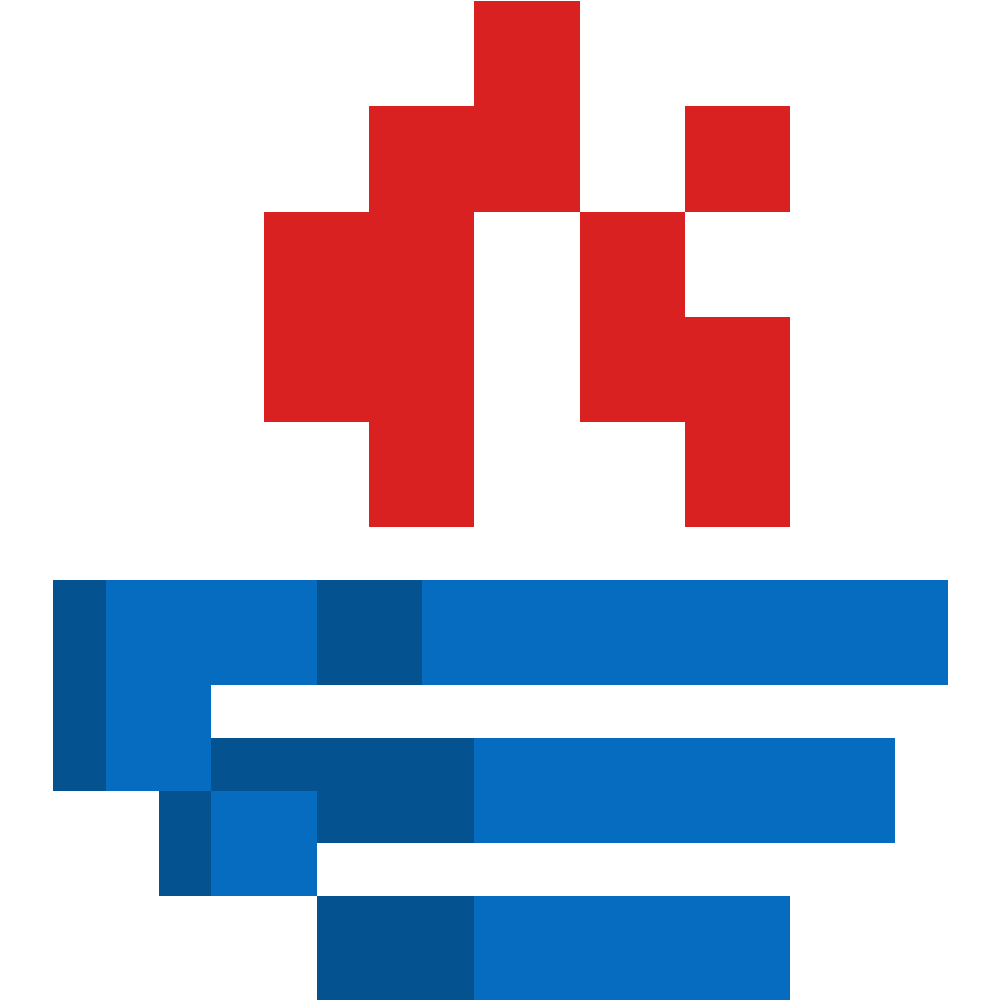
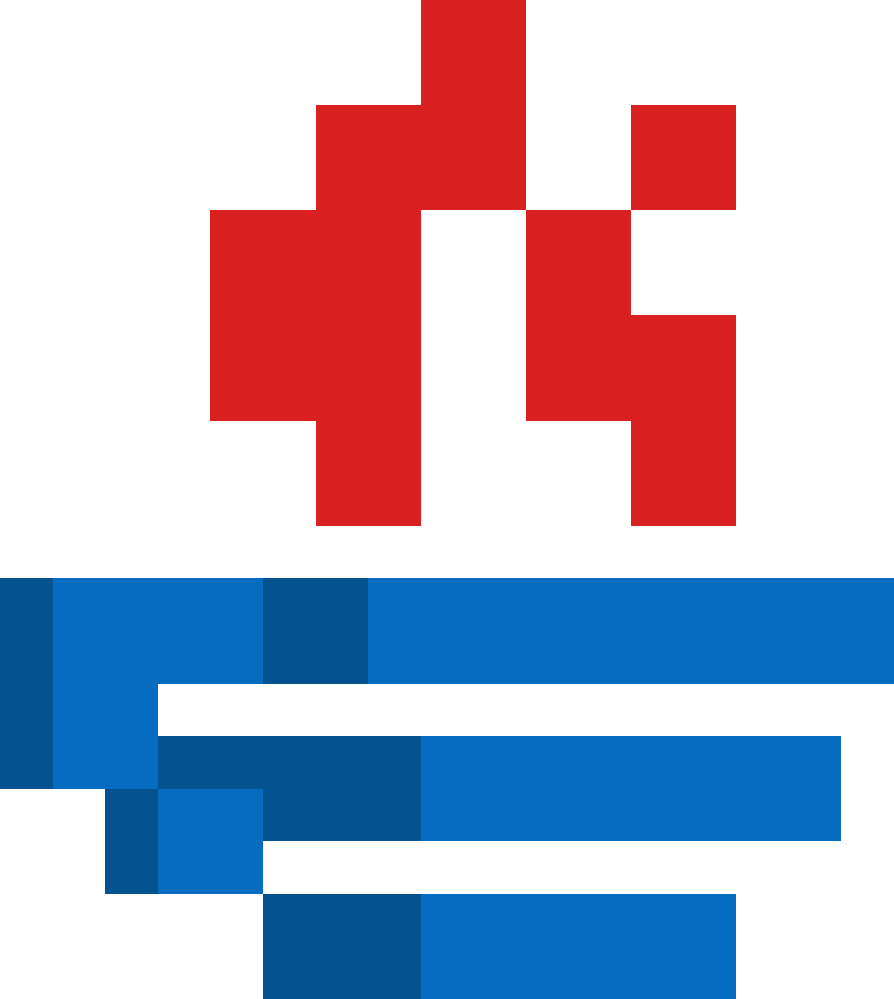
final versions of curr stuff + upscales

diff --git a/scripts/xmasize/cropupscale.py b/scripts/xmasize/cropupscale.py
@@ -39,6 +39,6 @@ def crop_and_upscale_images(input_folder, output_folder, target_size=1000):
                 print(f"Processed and saved: {output_path}")
 
 if __name__ == "__main__":
-    input_dir = r"icons"
-    output_dir = r"upscaled"
+    input_dir = r"../../icons/future/files/coding"
+    output_dir = r"../../icons/future/us"
     crop_and_upscale_images(input_dir, output_dir)
